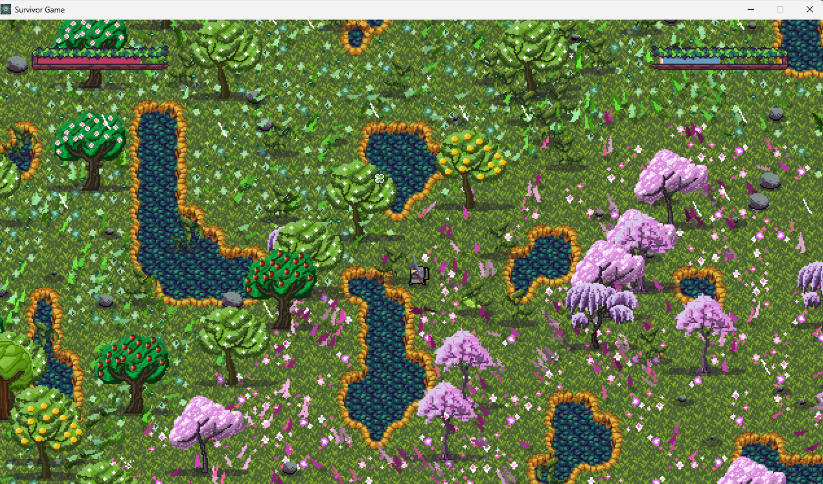
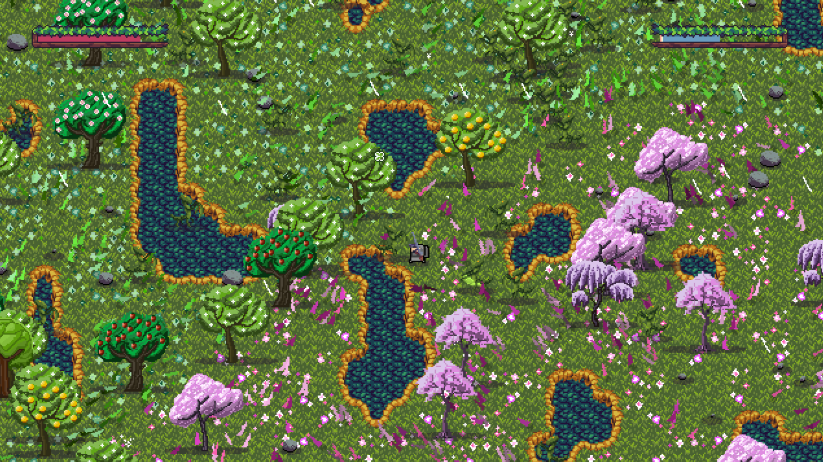
Added an xp bar and xp system to player

diff --git a/Code/Variables/SettingVariables.py b/Code/Variables/SettingVariables.py
@@ -41,7 +41,8 @@ GENERAL = {
 DIFFICULTY = {"easy": (0.9, 0.8, 1, 1.1, 1), "medium": (1, 1, 1, 1, 1), "hard": (1.1, 1.2, 1, 1, 0.9)}  # enemy speed, enemy health, enemy damage, player health, player damage
 
 # Miscellaneous settings
-MISC = {"hit_effect": (20, 200), "enemy_spawns": 100, "transition_time": 1, "acid_damage": 3, "enviroment_density": (0.05, 16, 250), "ui_bars": (80, 30), "bullet_knockback": 1000}
+MISC = {"hit_effect": (20, 200), "enemy_spawns": 100, "transition_time": 1, "acid_damage": 3, "enviroment_density": (0.05, 16, 250),
+        "ui_bars": (80, 30), "bullet_knockback": 1000, "xp_bar": (240, 30)}
 
 # Camera settings
 CAMERA = {'lerp_speed': 5, 'mouse_smoothing': v2(10, 10), 'window_mouse_smoothing_amount': 5, 'deadzone': 1, 'window_max_offset': 0.3,
@@ -51,7 +52,7 @@ CAMERA = {'lerp_speed': 5, 'mouse_smoothing': v2(10, 10), 'window_mouse_smoothin
 GRASS = {"tile_size": 16, "shade_amount": 100, "stiffness": 300, "max_unique": 5, "vertical_place_range": (0, 1), "wind_effect": (13, 25), "density": 0.4,
          "shadow_radius": 3, "shadow_strength": 60, "shadow_shift": (1, 2),
          "Rot_Function": lambda x_val, y_val, game_time: int(math.sin(game_time * 2 + x_val / 100 + y_val / 100) * 15), "positions": {"forest_grass": [0, 1, 2, 3, 4],
-                                                                                                                                      "lush_grass": [5, 6, 7, 8, 9], "spring_grass": [10, 11, 12, 13, 14], "cherryblossom_grass": [15, 16, 17, 18, 19], "wasteland_grass": [20, 21, 22, 23, 24]}}
+          "lush_grass": [5, 6, 7, 8, 9], "spring_grass": [10, 11, 12, 13, 14], "cherryblossom_grass": [15, 16, 17, 18, 19], "wasteland_grass": [20, 21, 22, 23, 24]}}
 
 # Player settings
 PLAYER = {'health': 100, "res": (16, 16), 'vel': 90, "sprint_vel": 140, "slowed_vel": 50, 'damage': 30, 'acceleration': 200, "offset": (10, 10, -10, -10),
@@ -115,4 +116,6 @@ BUTTONS = {
                       "volume": M.create_slider(v2(360, 45), "sound volume:  ", 0, 100, 50, AM.assets["button7"]),
                       },
           "End_Screen_Buttons": {"restart": M.create_button("restart", v2(240, 40), AM.assets["button5"]),
-                                 "quit": M.create_button("quit", v2(400, 40), AM.assets["button5"])}}
+                    "quit": M.create_button("quit", v2(400, 40), AM.assets["button5"])},
+          "XP_bar": M.create_button("", v2(320, 30), AM.assets["xp_bar_uncoloured"], {"text_pos": "top", "active": True, "hover_slide": True, "res": AM.assets["xp_bar_uncoloured"].size, "distance_factor": 0.1})
+}

diff --git a/Code/Managers/UIManager.py b/Code/Managers/UIManager.py
@@ -107,15 +107,30 @@ class UIManager:
 
           def draw(self):
                     self.darken_screen()  # Apply screen darkening effect
+                    self.draw_xp_underbar()   # Draw XP underbar
                     self.draw_bars()  # Draw health and stamina bars
                     self.draw_fps()  # Draw FPS counter
                     self.draw_time()  # Draw game time
 
           def update_display(self):
                     self.display_mouse()  # Display custom mouse cursor
+                    self.draw_xp_bar()  # Draw XP bar
                     self.draw_ui_surface()  # Draw UI elements
                     self.draw_brightness()  # Apply brightness adjustment
                     self.apply_color_filter()  # Apply color filter for color blindness modes
+
+          def draw_xp_underbar(self):
+                    if not self.game.in_menu and not self.game.died and not self.game.playing_transition:
+                              rect = self.game.assets["xp_bar_outline"].get_rect(center=(MISC["xp_bar"][0] + self.game.assets["xp_bar_coloured"].width / 2 + 10, MISC["xp_bar"][1]))
+                              self.game.uiS.blit(self.game.assets["xp_bar_outline"], rect)  # Draw UI bar on UI surface
+
+          def draw_xp_bar(self):
+                    if not self.game.in_menu and not self.game.died and not self.game.playing_transition:
+                              res = self.game.assets["xp_bar_coloured"].width * max(min(self.game.player.xp / self.game.player.max_xp, 1), 0), self.game.assets["xp_bar_uncoloured"].height
+                              surface = pygame.Surface(res)
+                              surface.blit(self.game.assets["xp_bar_coloured"])
+                              rect = surface.get_rect(center=(MISC["xp_bar"][0] + self.game.assets["xp_bar_coloured"].width / 2 + 10, MISC["xp_bar"][1]))
+                              self.game.uiS.blit(surface, rect)  # Draw UI bar on UI surface
 
           def apply_color_filter(self):
                     if self.game.colour_mode == 50:  # Normal vision, no filter applied

diff --git a/Code/Individuals/Player.py b/Code/Individuals/Player.py
@@ -31,6 +31,10 @@ class Player:
                     self.water_collision = False
                     self.water_check_timer = Timer(0.2, 0)
                     self.hit_count = None
+                    self.xp = 0
+                    self.level = 1
+
+                    self.calculate_max_xp()
 
           def update_position(self):
                     # Calculate new position based on velocity and delta time
@@ -45,6 +49,11 @@ class Player:
                     if self.offset[1] + self.res[1] / 2 < new_y < GAMESIZE[1] - self.res[1] / 2 + self.offset[3]:
                               self.pos.y = new_y
                               self.rect.centery = self.pos.y
+
+          def calculate_max_xp(self):
+                    base_xp = 100
+                    growth_factor = 1.2
+                    self.max_xp = int(base_xp * (growth_factor ** (self.level - 1)))
 
           def find_spawn_position(self):
                     # Find a suitable spawn position that's not on a water tile
@@ -106,9 +115,11 @@ class Player:
                               self.update_position()
 
                     self.update_animation()
+                    self.xp += 0.01
 
                     # Update gun
                     self.gun.update()
+                    self.calculate_max_xp()
 
           def draw(self, surface=None):
                     # Draw the player on the given surface (or game display if none provided)
@@ -181,7 +192,6 @@ class Player:
                               self.hit_count = 0
 
                               self.game.cameraM.add_screen_shake(SHAKE["hit"][1], SHAKE["hit"][0] * self.game.reduced_screen_shake)
-
 
           def check_if_alive(self):
                     # Check if player's health has depleted

diff --git a/Code/Managers/InteractablesManager.py b/Code/Managers/InteractablesManager.py
@@ -12,6 +12,7 @@ class InteractablesManager:
                     self.menu_buttons = {}  # Buttons used in the main menu
                     self.end_buttons = {}  # Buttons used in the end screen
                     self.sliders = {}  # Sliders for adjusting settings
+                    self.xp_bar = Button(self.game, BUTTONS["XP_bar"])
 
                     # Initialize all buttons and sliders
                     self._create_ingame_buttons()
@@ -82,6 +83,9 @@ class InteractablesManager:
                               buttons.active = self.game.changing_settings
                               buttons.update()
                               buttons.change_colour()
+
+                    self.xp_bar.update()
+                    self.xp_bar.text_input = "level: " + str(self.game.player.level)
 
                     if self.game.mouse_state[0] and self.button_cooldown_timer.check(self.game.ticks):
                               if self.game.changing_settings:
@@ -171,6 +175,7 @@ class InteractablesManager:
                               # Draw in-game buttons and sliders
                               for button in sorted(list(self.game_buttons.values()) + list(self.sliders.values()), key=lambda element: element.pos.y):
                                         button.draw()
+                              self.xp_bar.draw()
                     elif self.game.in_menu and not self.game.died:
                               # Draw menu buttons
                               for button in sorted(self.menu_buttons.values(), key=lambda b: b.pos.y):

diff --git a/Code/Individuals/Interactable.py b/Code/Individuals/Interactable.py
@@ -42,6 +42,12 @@ class Interactable:
                     screen_rect = self.game.displayS.get_rect()
                     return self.rect.colliderect(screen_rect)
 
+          def update_text_render(self):
+                    # Update the rendered text
+                    if self.has_text:
+                              self.text = self.font.render(self.text_input, False, self.base_colour)
+                              self.update_text_position()
+
           def check_for_input(self):
                     # Check if the mouse is over the UI element
                     return self.rect.collidepoint(self.game.correct_mouse_pos)
@@ -84,6 +90,8 @@ class Interactable:
 
                     if self.has_text:
                               self.update_text_position()
+
+                    self.update_text_render()
 
           def init_positions(self):
                     # Initialize the positions and text for the UI element

diff --git a/Code/Managers/ScreenEffectManager.py b/Code/Managers/ScreenEffectManager.py
@@ -28,6 +28,8 @@ class ScreenEffectManager:
                                         self.transition_screeneffect.frame = self.transition_screeneffect.length
                                         self.inverted_transition = True  # Set flag to indicate transition is inverted
                               self.transition_screeneffect.draw(-1)  # Draw transition in reverse
+                              if self.transition_screeneffect.frame < 0:
+                                        self.game.playing_transition = False  # Exit transition when transition completes
 
                     # Handle "You Died" effect
                     if self.game.died:
